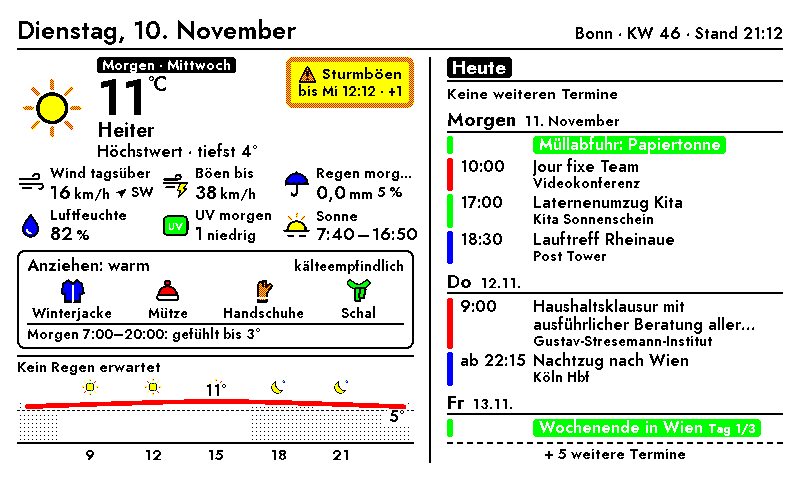
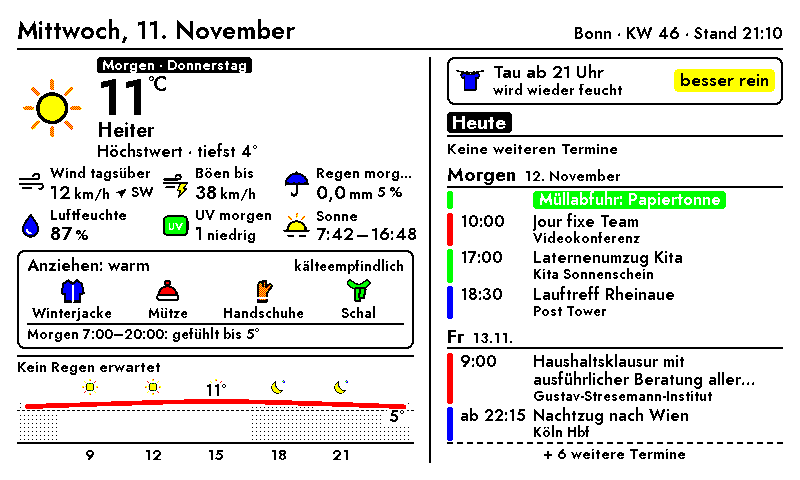
Add files via upload

diff --git a/tagesdashboard/settings.html b/tagesdashboard/settings.html
@@ -2,7 +2,7 @@
 <script src="https://unpkg.com/leaflet@1.9.4/dist/leaflet.js" integrity="sha256-20nQCchB9co0qIjJZRGuk2/Z9VM+kNiyxNV1lvTlZBo=" crossorigin=""></script>
 
 <!-- Markiert gespeicherte Einstellungen: nicht angehakte Checkboxen gelten dann als "aus" -->
-<input type="hidden" name="cfgVersion" value="3" />
+<input type="hidden" name="cfgVersion" value="4" />
 
 <div class="form-group">
     <label class="form-label">Wetter-Ort:</label>
@@ -80,6 +80,14 @@
 </div>
 
 <div class="form-group">
+    <label class="form-label">Wäsche auf dem Balkon:</label>
+    <div class="form-group"><input type="checkbox" class="db-check" id="laundryEnabled" name="laundryEnabled" value="true" data-default="true" data-since="4"><span>Abends anzeigen, ob die Wäsche rein sollte</span></div>
+    <div class="form-group"><span>Anzeigen von</span><input type="time" id="laundryFrom" name="laundryFrom" class="form-input" /><span>bis</span><input type="time" id="laundryTo" name="laundryTo" class="form-input" /></div>
+    <div class="form-group"><input type="checkbox" class="db-check" id="laundryCovered" name="laundryCovered" value="true" data-default="false" data-since="4"><span>Balkon ist überdacht (Regen zählt nur bei Wind)</span></div>
+    <div class="db-hint">Geprüft wird die Vorhersage bis morgen 10 Uhr. <b>Reinholen</b> bei Regen oder Schnee (ab 0,1 mm oder 60 %) und Sturmböen ab 50 km/h; <b>besser rein</b> bei möglichem Regen (ab 30 %), Nebel, Tau oder Frost; sonst <b>kann bleiben</b>.</div>
+</div>
+
+<div class="form-group">
     <label class="form-label">Nachrichten am Morgen:</label>
     <div class="form-group"><input type="checkbox" class="db-check" id="newsEnabled" name="newsEnabled" value="true" data-default="true" data-since="3"><span>Schlagzeilen für Bonn, NRW und Bund zeigen (dann nur die heutigen Termine)</span></div>
     <div class="form-group"><span>Mo–Fr von</span><input type="time" id="newsFrom" name="newsFrom" class="form-input" /><span>bis</span><input type="time" id="newsTo" name="newsTo" class="form-input" /></div>
@@ -131,6 +139,7 @@
     const DEFAULTS = { switchHour: '20', sensitivity: 'empfindlich', calendarDays: '7',
         trainStation: 'Bonn Hbf', trainLine: 'RE 5', trainTime: '08:04', trainFrom: '06:30', trainTo: '08:15',
         quietMinutes: '15',
+        laundryFrom: '17:00', laundryTo: '23:00',
         newsFrom: '06:00', newsTo: '09:30', newsWeekendFrom: '08:00', newsWeekendTo: '10:30',
         newsBonnUrl: 'https://ga.de/feed.rss', newsNrwUrl: 'https://www1.wdr.de/uebersicht-100.feed',
         newsBundUrl: 'https://www.tagesschau.de/index~rss2.xml' };

diff --git a/tagesdashboard/render/tagesdashboard.html b/tagesdashboard/render/tagesdashboard.html
@@ -117,6 +117,16 @@
       <div class="tr-badge">{{ train.badge }}</div>
     </div>
     {% endif %}
+    {% if laundry %}
+    <div class="laundry lw-{{ laundry.state }}">
+      <div class="lw-icon"><svg class="lw-svg" viewBox="0 0 48 48" aria-hidden="true"><path d="M3 9 Q24 15 45 9" fill="none" stroke="#000" stroke-width="2.6" stroke-linecap="round"/><path d="M14 12 L9 16 L12 21 L15 19 L15 40 L33 40 L33 19 L36 21 L39 16 L34 12 Q30 15.5 24 15.5 Q18 15.5 14 12 Z" fill="#0082C9" stroke="#000" stroke-width="2.4" stroke-linejoin="round"/><rect x="17.5" y="10" width="2.6" height="6" fill="#000"/><rect x="28" y="10" width="2.6" height="6" fill="#000"/></svg></div>
+      <div class="tr-main">
+        <div class="tr-top">{{ laundry.text }}</div>
+        <div class="tr-sub">{{ laundry.details }}</div>
+      </div>
+      <div class="tr-badge">{{ laundry.badge }}</div>
+    </div>
+    {% endif %}
     {% if cal_error %}
     <div class="error-box">Kalender nicht verfügbar<br><span>{{ cal_error }}</span></div>
     {% else %}

diff --git a/tagesdashboard/render/tagesdashboard.css b/tagesdashboard/render/tagesdashboard.css
@@ -207,7 +207,7 @@
 .alert.lvl-2 { border-width: calc(var(--u) * 0.7); }
 
 /* ---------------- Zug (nur im eingestellten Zeitfenster) ---------------- */
-.train {
+.train, .laundry {
   flex: 0 0 auto;
   display: flex;
   align-items: center;
@@ -225,6 +225,13 @@
   font-size: calc(var(--u) * 2.2);
   white-space: nowrap;
 }
+.laundry .tr-top { font-size: calc(var(--u) * 2.2); }
+.lw-icon { flex: 0 0 auto; line-height: 0; }
+.lw-svg { width: calc(var(--u) * 3.8); height: calc(var(--u) * 3.8); }
+.lw-rein .tr-badge { background: #E3001B; color: #fff; }
+.lw-besser .tr-badge { background: #FFE500; color: #000; }
+.lw-bleiben .tr-badge { background: #2E9E3F; color: #fff; }
+.lw-rein { border-color: #E3001B; }
 .tr-main { flex: 1 1 auto; min-width: 0; display: flex; flex-direction: column; }
 .tr-top { font-size: calc(var(--u) * 2.4); white-space: nowrap; overflow: hidden; text-overflow: ellipsis; }
 .tr-plan { text-decoration-thickness: calc(var(--u) * 0.3); }

diff --git a/tagesdashboard/waesche.py b/tagesdashboard/waesche.py
@@ -1,0 +1,124 @@
+"""
+Abends: Soll die Wäsche vom Balkon rein?
+
+Geprüft wird die stündliche DWD-Vorhersage von jetzt bis morgen UNTIL_HOUR Uhr
+(dann ist die Wäsche normalerweise wieder abgenommen oder trocknet in der Sonne).
+
+Stufen (die erste zutreffende zählt):
+  rein     Niederschlag (≥ 0,1 mm oder Wahrscheinlichkeit ≥ 60 %) oder Sturmböen (≥ 50 km/h)
+  besser   Regen möglich (30–59 %), Nebel, Tau (Luft fast gesättigt, kaum Wind) oder Frost
+  bleiben  nichts davon
+
+Ist der Balkon überdacht, zählt Regen nur bei Wind (Böen ≥ 35 km/h treiben ihn unter das Dach).
+"""
+
+from datetime import datetime, time, timedelta
+
+UNTIL_HOUR = 10
+RAIN_MM = 0.1
+RAIN_PROB_SURE = 60
+RAIN_PROB_MAYBE = 30
+GUST_STORM = 50       # km/h, ab Bft 7 fliegen Klammern und Wäscheständer
+GUST_DRIVING_RAIN = 35
+DEW_SPREAD = 1.5      # K: Temperatur kaum über dem Taupunkt -> Tau
+DEW_HUMIDITY = 93     # %
+DEW_MAX_WIND = 10     # km/h: bei mehr Wind bildet sich kaum Tau
+WET = {"rain", "snow", "sleet", "hail"}
+
+
+def _h(dt):
+    return "Mitternacht" if dt.hour == 0 else f"{dt.hour} Uhr"
+
+
+def _is_wet(r):
+    return (r.get("precipitation") or 0) >= RAIN_MM or r.get("condition") in WET
+
+
+def _kind(rs):
+    """Regen, Schnee oder beides – für den Text."""
+    icons = {r.get("icon") for r in rs} | {r.get("condition") for r in rs}
+    snow = bool(icons & {"snow", "sleet"})
+    rain = bool(icons & {"rain", "hail", "thunderstorm"}) or not snow
+    return "Schneeregen" if snow and rain and "sleet" in icons else ("Schnee" if snow else "Regen")
+
+
+def period(now):
+    """Zeitraum der Prüfung: jetzt bis morgen 10 Uhr (nach Mitternacht: bis heute 10 Uhr)."""
+    day = now.date() + timedelta(days=0 if now.hour < 5 else 1)
+    return now.replace(minute=0, second=0, microsecond=0), datetime.combine(day, time(UNTIL_HOUR), tzinfo=now.tzinfo)
+
+
+def check(records, now, covered=False):
+    start, end = period(now)
+    hours = [r for r in records if start <= r["dt"] < end]
+    if not hours:
+        return None
+
+    def at(r, prob):
+        return r.get("precipitation_probability") is not None and r["precipitation_probability"] >= prob
+
+    gust = max((r.get("wind_gust_speed") or 0) for r in hours)
+    t_min = min((r["temperature"] for r in hours if r.get("temperature") is not None), default=None)
+
+    sure = [r for r in hours if _is_wet(r) or at(r, RAIN_PROB_SURE)]
+    maybe = [r for r in hours if at(r, RAIN_PROB_MAYBE)]
+    if covered:  # unter dem Dach nur bei Wind nass
+        sure = [r for r in sure if (r.get("wind_gust_speed") or 0) >= GUST_DRIVING_RAIN]
+        maybe = [r for r in maybe if (r.get("wind_gust_speed") or 0) >= GUST_DRIVING_RAIN]
+    storm = [r for r in hours if (r.get("wind_gust_speed") or 0) >= GUST_STORM]
+    fog = [r for r in hours if r.get("icon") == "fog" or r.get("condition") == "fog"]
+    dew = [r for r in hours
+           if not (7 <= r["dt"].hour < 18)  # nachts und am frühen Morgen
+           and r.get("temperature") is not None
+           and (r.get("wind_speed") or 0) < DEW_MAX_WIND
+           and ((r.get("relative_humidity") or 0) >= DEW_HUMIDITY
+                or (r.get("dew_point") is not None and r["temperature"] - r["dew_point"] <= DEW_SPREAD))]
+
+    tmin = f"tiefste {round(t_min)}°" if t_min is not None else ""
+    until = f"morgen {UNTIL_HOUR} Uhr" if end.date() > now.date() else f"{UNTIL_HOUR} Uhr"
+
+    def res(state, text, *details):
+        badge = {"rein": "reinholen", "besser": "besser rein", "bleiben": "kann bleiben"}[state]
+        return {"state": state, "badge": badge, "text": text, "details": " · ".join(d for d in details if d)}
+
+    def stop(rs):
+        """Ende der ersten zusammenhängenden Niederschlagsphase."""
+        last = rs[0]["dt"]
+        for r in rs[1:]:
+            if r["dt"] - last > timedelta(hours=1):
+                break
+            last = r["dt"]
+        return last + timedelta(hours=1)
+
+    if sure:
+        first = sure[0]["dt"]
+        when = "jetzt" if first <= now else f"ab {_h(first)}"
+        p = max((r.get("precipitation_probability") or 0) for r in sure)
+        end_txt = _h(stop(sure))
+        return res("rein", f"{_kind(sure)} {when}", f"{p} %" if p else "",
+                   f"bis etwa {end_txt}" if end_txt != "Mitternacht" else "bis etwa Mitternacht")
+    if storm:
+        return res("rein", f"Sturmböen ab {_h(storm[0]['dt'])}", f"bis {round(gust)} km/h")
+    if maybe:
+        p = max(r["precipitation_probability"] for r in maybe)
+        return res("besser", f"Regen möglich ab {_h(maybe[0]['dt'])}", f"bis {p} %", tmin)
+    if fog:
+        return res("besser", f"Nebel ab {_h(fog[0]['dt'])}", "wird wieder feucht")
+    if dew:
+        return res("besser", f"Tau ab {_h(dew[0]['dt'])}", "wird wieder feucht")
+    if t_min is not None and t_min <= 0:
+        return res("besser", f"Frost bis {round(t_min)}°", "Wäsche friert steif")
+    return res("bleiben", "bleibt trocken", f"bis {until}")
+
+
+def in_window(now, start, end):
+    t = now.time().replace(second=0, microsecond=0)
+    return start <= t < end
+
+
+def boundaries(now, start, end, days=2):
+    out = []
+    for offset in range(days + 1):
+        d = now.date() + timedelta(days=offset)
+        out += [datetime.combine(d, start, tzinfo=now.tzinfo), datetime.combine(d, end, tzinfo=now.tzinfo)]
+    return out

diff --git a/tagesdashboard/tagesdashboard.py b/tagesdashboard/tagesdashboard.py
@@ -14,6 +14,7 @@ Was das Dashboard selbst hinzufügt:
   * Regenwahrscheinlichkeit direkt an den Terminen
   * Live-Daten eines Pendelzuges in einem Zeitfenster (bahn.py)
   * morgens Schlagzeilen für Bonn, NRW und Bund (nachrichten.py)
+  * abends: Wäsche vom Balkon holen? (waesche.py)
 """
 
 import json
@@ -40,9 +41,9 @@ except Exception as exc:  # Plugin soll InkyPi beim Start nicht blockieren
     IMPORT_ERROR = exc
 
 try:
-    from . import kleidung, bahn, nachrichten
+    from . import kleidung, bahn, nachrichten, waesche
 except ImportError:  # pragma: no cover
-    from plugins.tagesdashboard import kleidung, bahn, nachrichten
+    from plugins.tagesdashboard import kleidung, bahn, nachrichten, waesche
 
 WOCHENTAGE = ["Montag", "Dienstag", "Mittwoch", "Donnerstag", "Freitag", "Samstag", "Sonntag"]
 WOCHENTAGE_KURZ = ["Mo", "Di", "Mi", "Do", "Fr", "Sa", "So"]
@@ -80,11 +81,16 @@ DEFAULTS = {
     "newsBonnFilter": "/bonn/",
     "newsNrwUrl": nachrichten.DEFAULT_FEEDS["nrw"][2],
     "newsBundUrl": nachrichten.DEFAULT_FEEDS["bund"][2],
+    # Wäsche (seit cfgVersion 4)
+    "laundryEnabled": "true",
+    "laundryFrom": "17:00", "laundryTo": "23:00",
+    "laundryCovered": "false",
 }
 # Ab welcher cfgVersion es einen Schlüssel gibt. Ist die gespeicherte Version älter, gilt für
 # Checkboxen der Standardwert statt "fehlt = aus" (sonst wären neue Funktionen stumm aus).
 SINCE_VERSION = {k: 2 for k in DEFAULTS if k.startswith("train") or k == "quietMinutes"}
 SINCE_VERSION.update({k: 3 for k in DEFAULTS if k.startswith("news")})
+SINCE_VERSION.update({k: 4 for k in DEFAULTS if k.startswith("laundry")})
 
 # Außerhalb des Zug-Zeitfensters wird ein fertiges Bild wiederverwendet (siehe generate_image)
 _IMAGE_CACHE = {}
@@ -180,6 +186,10 @@ class Tagesdashboard(BasePlugin):
         news_now = bool(news_cfg) and nachrichten.in_window(now, news_cfg)
         # Nur mit Zug: Nur dafür muss InkyPi schneller laufen als sonst. Ohne Zug gilt allein das
         # Intervall der Playlist (ein Cache würde es sonst stillschweigend verlängern).
+        laundry_win = None
+        if flag("laundryEnabled"):
+            lf, lt = bahn.parse_hhmm(opt("laundryFrom")), bahn.parse_hhmm(opt("laundryTo"))
+            laundry_win = (lf, lt) if lf and lt else None
         use_cache = bool(train_cfg) and not train_now
         cache_key = json.dumps([settings, list(dimensions)], sort_keys=True, default=str)
         if use_cache and not self._manual_refresh():
@@ -239,6 +249,8 @@ class Tagesdashboard(BasePlugin):
                 params["wear"] = self.wear(records, events, focus, now, tz, self._opt(settings, "sensitivity"),
                                            uv=weather.get("uv"))
 
+        if laundry_win and records and waesche.in_window(now, *laundry_win):
+            params["laundry"] = waesche.check(records, now, covered=flag("laundryCovered"))
         if news_now:
             params["news"] = nachrichten.load(news_cfg, now)
             params["news_sources"] = list(dict.fromkeys(it["source"] for g in params["news"] for it in g["items"]))
@@ -260,6 +272,7 @@ class Tagesdashboard(BasePlugin):
             until = now + timedelta(minutes=int(quiet) if quiet.isdigit() else 30)
             edges = [bahn.next_window_start(now, train_cfg)] if train_cfg else []
             edges += nachrichten.boundaries(now, news_cfg) if news_cfg else []
+            edges += waesche.boundaries(now, *laundry_win) if laundry_win else []
             for edge in edges:
                 if edge and now < edge < until:
                     until = edge

diff --git a/README.md b/README.md
@@ -38,6 +38,7 @@ Zusätzliche Python-Pakete braucht das Plugin nicht: `requests`, `astral`, `ical
 - **Kleidungsempfehlung:** für die Zeit, in der man unterwegs ist, also bis zum Ende des letzten Termins. Das Kälteempfinden ist einstellbar: normal, empfindlich oder sehr empfindlich.
 - **Termine (Nextcloud per CalDAV):** Kalenderfarben, Serientermine, ganztägige und mehrtägige Termine. Steigt das Regenrisiko während eines Termins auf mindestens 50 %, steht es am Termin.
 - **Nachrichten am Morgen:** werktags 6:00–9:30, am Wochenende 8:00–10:30 Uhr zeigt die rechte Spalte nur die heutigen Termine und darunter Schlagzeilen für Bonn (General-Anzeiger), NRW (WDR) und Bund (tagesschau). Ohne Liveblogs und doppelte Themen; quer bis zu zwei, hochkant bis zu drei pro Ebene, je nach Platz. Quellen und Zeiten sind einstellbar.
+- **Wäsche auf dem Balkon:** abends 17–23 Uhr eine Karte über den Terminen: „reinholen“ (Regen, Schnee, Sturmböen), „besser rein“ (Regen möglich, Nebel, Tau, Frost) oder „kann bleiben“ – geprüft bis morgen 10 Uhr. Für überdachte Balkone einstellbar.
 - **Zug (optional):** an ausgewählten Wochentagen in einem Zeitfenster eine Karte über den Terminen mit den Live-Daten eines Zuges, z. B. dienstags 6:30–8:15 Uhr der RE 5 ab Bonn Hbf um 8:04 Uhr: Verspätung mit neuer Abfahrtszeit, Gleiswechsel, Ausfall, vorzeitiges Zugende. Daten: Timetables-API der Deutschen Bahn (CC BY 4.0).
 - **Robust:** Fällt der Kalender oder das Wetter aus, zeigt das Dashboard den anderen Teil trotzdem an.
 - **Layout:** Quer- und Hochformat; optimiert für E-Ink mit halbfetter Schrift und ohne grauen Text. Die Farben werden auf die sechs Displayfarben eingerastet (siehe unten).
@@ -105,6 +106,7 @@ tagesdashboard/
 ├── kleidung.py              # Regeln und Symbole der Kleidungsempfehlung
 ├── bahn.py                  # Live-Daten eines Zuges (DB Timetables-API)
 ├── nachrichten.py           # Morgen-Schlagzeilen aus RSS-Feeds
+├── waesche.py               # Abends: Wäsche reinholen?
 ├── settings.html            # Einstellungsseite (deutsch)
 ├── plugin-info.json
 ├── icon.png
@@ -116,7 +118,7 @@ tagesdashboard/
     └── eink.py              #   Farben auf die Displayfarben einrasten
 ```
 
-`lib/` enthält Kopien aus den Plugins „DWD Wetter“ und „Nextcloud Kalender“, Stand Version 1.3.1. Dadurch läuft das Dashboard ohne diese Plugins. Sind sie trotzdem installiert, stören sie sich nicht gegenseitig.
+`lib/` enthält Kopien aus den Plugins „DWD Wetter“ und „Nextcloud Kalender“, Stand Version 1.4. Dadurch läuft das Dashboard ohne diese Plugins. Sind sie trotzdem installiert, stören sie sich nicht gegenseitig.
 
 ## Datenquellen
 
@@ -128,6 +130,6 @@ tagesdashboard/
 
 ## Status
 
-Version 1.3.1 (behoben: Playlist-Intervall wurde verdoppelt; 1.3: Nachrichten am Morgen; 1.2: Zug-Live-Daten; 1.1: Farben einrasten, Schrift für E-Ink). Wird aktiv gepflegt; Fehlerberichte und Pull Requests sind willkommen.
+Version 1.4 (Wäsche-Karte am Abend; 1.3.1: Playlist-Intervall wurde verdoppelt; 1.3: Nachrichten am Morgen; 1.2: Zug-Live-Daten; 1.1: Farben einrasten, Schrift für E-Ink). Wird aktiv gepflegt; Fehlerberichte und Pull Requests sind willkommen.
 
 Lizenz: GPL-3.0 (wie InkyPi).
